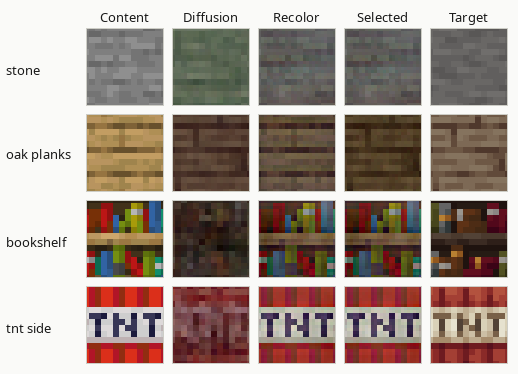
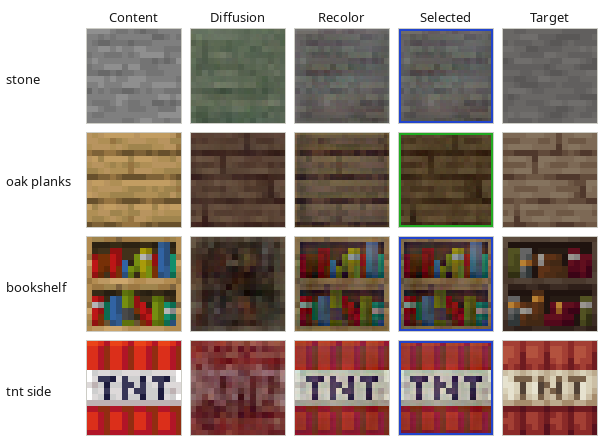
feat: improve images and finish up report

diff --git a/scripts/generate_report_texture_figures.py b/scripts/generate_report_texture_figures.py
@@ -39,7 +39,7 @@ FONT_CANDIDATES = (
     Path("/usr/share/fonts/TTF/DejaVuSans.ttf"),
     Path("/usr/share/fonts/truetype/dejavu/DejaVuSans.ttf"),
 )
-BACKGROUND = (250, 250, 248)
+BACKGROUND = (255, 255, 255)
 TEXT = (24, 24, 24)
 BORDER = (205, 205, 198)
 
@@ -135,7 +135,7 @@ def generate_figures(
             trim,
         ),
         output_path=output_dir / "multi-pack-oak-planks.png",
-        label_width=74,
+        label_width=86,
         scale=scale,
         gap=gap,
         trim=trim,
@@ -200,7 +200,7 @@ def main() -> None:
         help="Pack used for routing examples.",
     )
     parser.add_argument("--scale", type=int, default=3, help="Nearest-neighbor scale for cropped tiles.")
-    parser.add_argument("--trim", type=int, default=3, help="Pixels trimmed from each side of every tile.")
+    parser.add_argument("--trim", type=int, default=0, help="Pixels trimmed from each side of every tile.")
     parser.add_argument("--gap", type=int, default=8, help="Pixel gap between grid cells.")
     args = parser.parse_args()
 

diff --git a/report/chapters/04-experiments.tex b/report/chapters/04-experiments.tex
@@ -441,8 +441,8 @@ are diffusion-derived blends.
 
 \begin{figure}[htbp]
     \centering
-    \includegraphics[width=0.55\linewidth]{multi-pack-oak-planks.png}
-    \caption{Selected outputs for \texttt{oak\_planks.png} across four target packs.}
+    \includegraphics[width=0.40\linewidth]{multi-pack-oak-planks.png}
+    \caption{Selector-decided outputs for \texttt{oak\_planks.png} across four target packs.}
     \label{fig:oak-planks}
 \end{figure}
 
@@ -490,7 +490,7 @@ usually prefers recolor or blend candidates over raw diffusion.
 
 \begin{figure}[htbp]
     \centering
-    \includegraphics[width=0.82\linewidth]{ashen-routing-examples.png}
+    \includegraphics[width=0.60\linewidth]{ashen-routing-examples.png}
     \caption{Ashen\_16x routing examples from the current ensemble.}
     \label{fig:routing}
 \end{figure}
